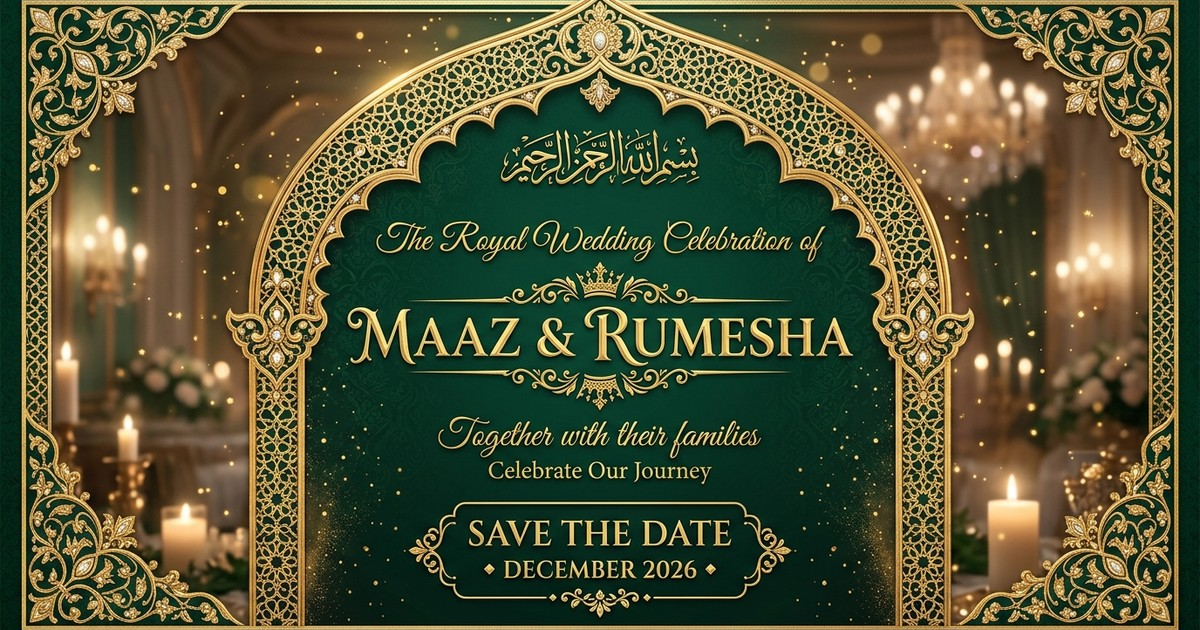
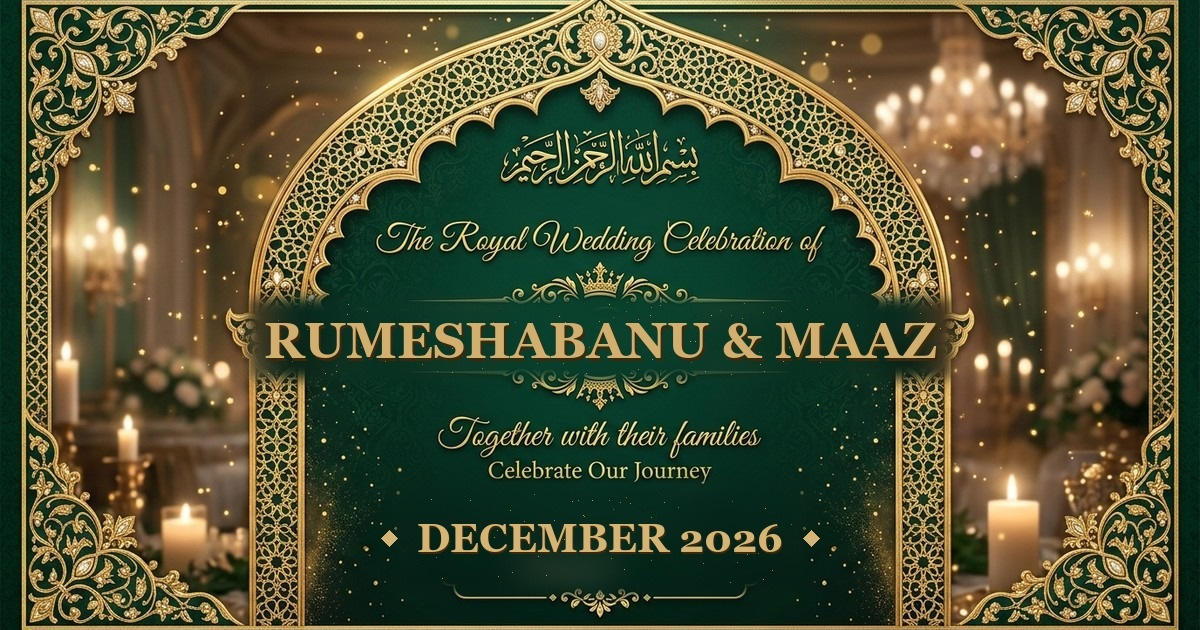
feat: update preview tile with Rumeshabanu bride-first names, remove save-the-date

Changed region(s): [[0.185, 0.4524, 0.8017, 0.6333], [0.3083, 0.7841, 0.6783, 0.9651]]

diff --git a/index.html b/index.html
@@ -17,8 +17,8 @@
   <meta property="og:url" content="https://rumesha-weds-maaz.invitingyou.top/">
   <meta property="og:title" content="Rumeshabanu & Maaz — Royal Wedding Invitation">
   <meta property="og:description" content="Celebrate the wedding of Rumeshabanu Saiyed & Maaz Saiyed. Experience the royal invitation with opening doors and itinerary.">
-  <meta property="og:image" content="https://raw.githubusercontent.com/muhsina-ov/rumeesha-weds-maaz/main/public/og-image.jpg">
-  <meta property="og:image:secure_url" content="https://raw.githubusercontent.com/muhsina-ov/rumeesha-weds-maaz/main/public/og-image.jpg">
+  <meta property="og:image" content="https://raw.githubusercontent.com/muhsina-ov/rumeesha-weds-maaz/main/public/og-image.jpg?v=2">
+  <meta property="og:image:secure_url" content="https://raw.githubusercontent.com/muhsina-ov/rumeesha-weds-maaz/main/public/og-image.jpg?v=2">
   <meta property="og:image:type" content="image/jpeg">
   <meta property="og:image:width" content="1200">
   <meta property="og:image:height" content="630">
@@ -30,7 +30,7 @@
   <meta name="twitter:url" content="https://rumesha-weds-maaz.invitingyou.top/">
   <meta name="twitter:title" content="Rumeshabanu & Maaz — Royal Wedding Invitation">
   <meta name="twitter:description" content="Celebrate the wedding of Rumeshabanu Saiyed & Maaz Saiyed. Experience the royal invitation with opening doors and itinerary.">
-  <meta name="twitter:image" content="https://raw.githubusercontent.com/muhsina-ov/rumeesha-weds-maaz/main/public/og-image.jpg">
+  <meta name="twitter:image" content="https://raw.githubusercontent.com/muhsina-ov/rumeesha-weds-maaz/main/public/og-image.jpg?v=2">
   <meta name="twitter:image:alt" content="Wedding Celebration of Rumeshabanu & Maaz - Royal Wedding Invitation">
 
   <!-- Google Fonts -->
